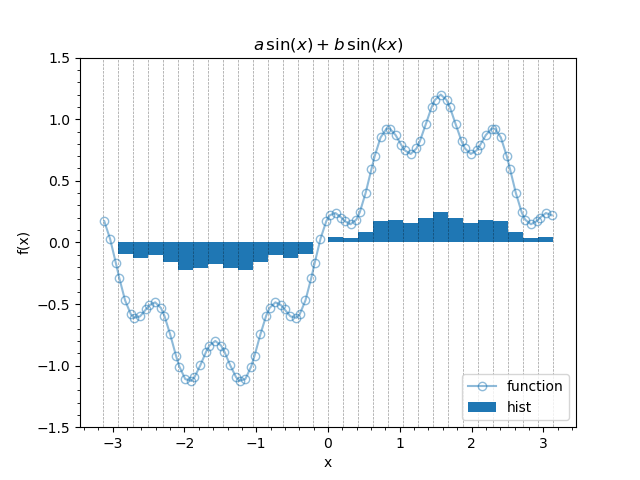
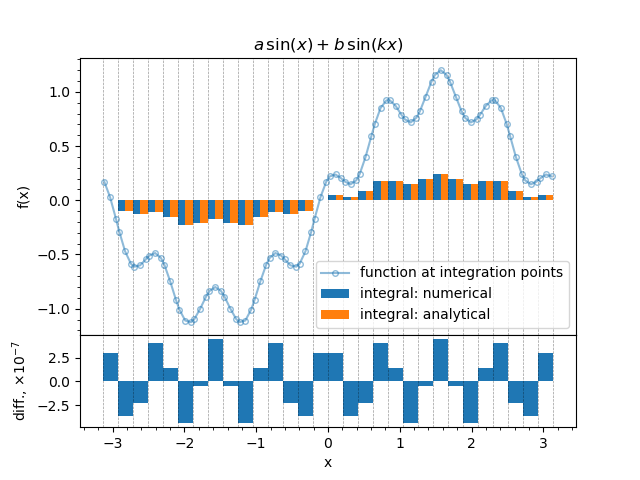
minor

diff --git a/macro/tutorial/complex/01_integral1d.py b/macro/tutorial/complex/01_integral1d.py
@@ -7,6 +7,7 @@ from gna.env import env
 import constructors as C
 import numpy as np
 from matplotlib import pyplot as plt
+import matplotlib.gridspec as gridspec
 from gna.bindings import common
 import ROOT as R
 
@@ -14,8 +15,8 @@ import ROOT as R
 ns = env.globalns
 
 # Create a parameter in the global namespace
-p1 = ns.defparameter('a', central=1.0, free=True, label='weight 1')
-p2 = ns.defparameter('b', central=0.2, free=True, label='weight 2')
+pa = ns.defparameter('a', central=1.0, free=True, label='weight 1')
+pb = ns.defparameter('b', central=0.2, free=True, label='weight 2')
 pk = ns.defparameter('k', central=8.0, free=True, label='argument scale')
 
 # Print the list of parameters
@@ -59,22 +60,50 @@ sin_t.sin.setLabel('sin(x)')
 cos_t.cos.setLabel('cos(kx)')
 fcn.sum.setLabel('a sin(x) + b cos(kx)')
 
+# Compute the integral analytically as a cross check
+# int| a*sin(x) + b*cos(k*x) = a*cos(x) - b/k*sin(kx) + C
+a, b, k = (p.value() for p in (pa, pb, pk))
+F = - a*np.cos(x_edges) + (b/k)*np.sin(k*x_edges)
+integral_a = F[1:] - F[:-1]
+bar_width = (x_edges[1:]-x_edges[:-1])*0.5
+bar_left = x_edges[:-1]+bar_width
+
+integral_n = integrator.hist.hist.data()
+
 # Do some plotting
 fig = plt.figure()
-ax = plt.subplot( 111 )
+gs = gridspec.GridSpec(nrows=4, ncols=1, hspace=0.0)
+ax = plt.subplot(gs[:3,0])
 ax.minorticks_on()
 # ax.grid()
-ax.set_xlabel( 'x' )
 ax.set_ylabel( 'f(x)' )
 ax.set_title(r'$a\,\sin(x)+b\,\sin(kx)$')
 
-fcn.sum.sum.plot_vs(int_points, 'o-', label='function', alpha=0.5, markerfacecolor='none')
-integrator.hist.hist.plot_bar(label='hist')
+# Draw the function and integrals
+fcn.sum.sum.plot_vs(int_points, 'o-', label='function at integration points', alpha=0.5, markerfacecolor='none', markersize=4.0)
+integrator.hist.hist.plot_bar(label='integral: numerical', divide=2, shift=0)
+ax.bar(bar_left, integral_a, bar_width, label='integral: analytical', align='edge')
 
-ax.vlines(integrator.points.xedges.data(), -2, 2, linestyle='--', alpha=0.4, linewidth=0.5)
-ax.set_ylim(-1.5, 1.5)
+# Freeze axis limits and draw bin edges
+ax.autoscale(enable=False, axis='y')
+ymin, ymax = ax.get_ylim()
+ax.vlines(integrator.points.xedges.data(), ymin, ymax, linestyle='--', alpha=0.4, linewidth=0.5)
 
 ax.legend(loc='lower right')
+
+# Add difference
+ax = plt.subplot(gs[3,0], sharex=ax)
+ax.set_xlabel('x')
+diff_factor=1.e-7
+ax.set_ylabel(r'diff., $\times10^{-7}$')
+
+diff = integral_n-integral_a
+ax.bar(x_edges[:-1], diff/diff_factor, bar_width*2.0, align='edge')
+
+# Freeze axis limits and draw bin edges
+ax.autoscale(enable=False, axis='y')
+ymin, ymax = ax.get_ylim()
+ax.vlines(integrator.points.xedges.data(), ymin, ymax, linestyle='--', alpha=0.4, linewidth=0.5)
 
 from mpl_tools.helpers import savefig
 from sys import argv
